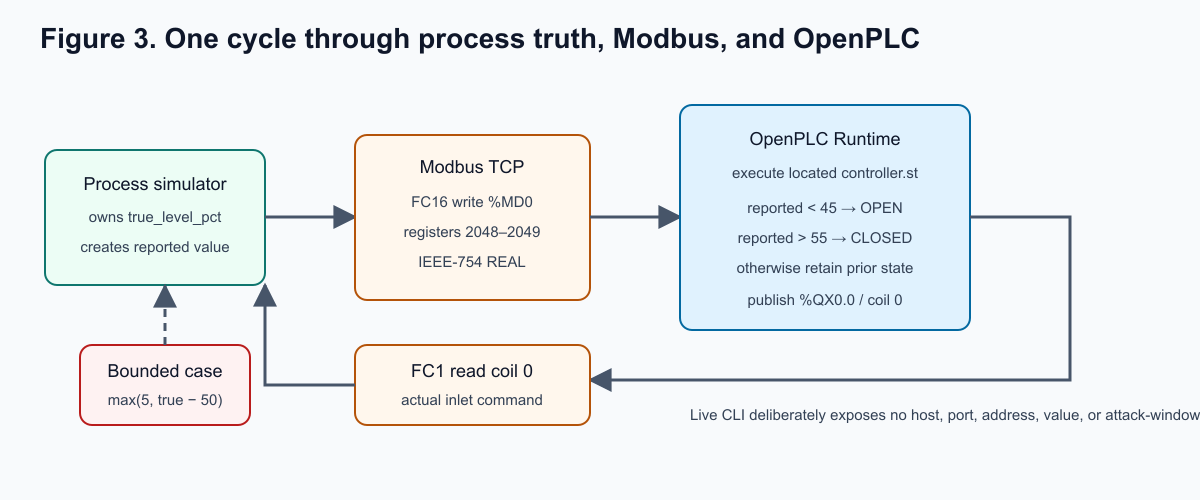
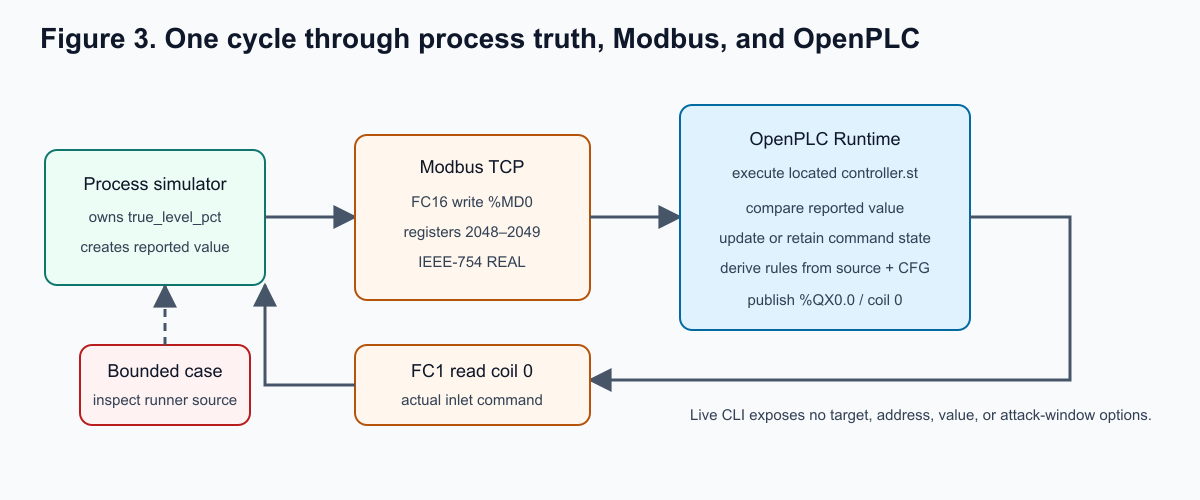
Require student-derived HW2 analysis (#10)

Changed region(s): [[0.5858, 0.39, 0.7708, 0.57], [0.6167, 0.81, 1.0, 0.84], [0.0617, 0.78, 0.2158, 0.81]]

diff --git a/labs/cps-tank/hw2/EVIDENCE_REFERENCE.md b/labs/cps-tank/hw2/EVIDENCE_REFERENCE.md
@@ -20,7 +20,7 @@ not equate those timestamps without aligning the run events.
 | `messages.jsonl` | direction, semantic payload | Model-generated application messages | Packets on a real network |
 | `events.log` | perturbation, command, violation timing | Event ordering on the common clock | Causality by itself |
 | `property_results.json` | expression, verdict, maximum, first violation | Result of one predicate over this finite trace | Universal safety or causal attribution |
-| `oracle_ladder.json` | layer verdicts, whole-run reported maximum, and first-violation onset decision | Whether the controller's view missed the decision immediately before a physical violation, even if it later saw the aftermath | Correctness outside this run or whether an unsafe level was hidden for the entire run |
+| `oracle_ladder.json` | layer verdicts, whole-run reported maximum, and first-violation onset decision | Values needed to compare controller awareness at onset with the whole-run report | The interpretation of any disagreement, correctness outside this run, or causal attribution |
 | `manifest.sha256` | digest and filename | Whether bundle files later changed | Who created them or whether the source was truthful |
 
 ## Default property
@@ -29,30 +29,34 @@ not equate those timestamps without aligning the run events.
 P1: always(true_level_pct < 90)
 ```
 
-The checker uses process truth because the property concerns the simulated physical consequence. Checking only the reported sensor would answer a different question: whether the controller's *view* appeared below 90%. In the bounded live spoof, the whole-run reported oracle can fail after the manipulation stops, while `physical_violation_onset_detection` still says `MISSED`: the decision that led to the first unsafe physical sample used a below-threshold report.
-
-The primary property and checker are provided. Your task is to explain why this
-oracle is tied to process truth, interpret its finite-trace verdict, and either
-critique one limitation or define one small secondary property. You are not
-being asked to invent a complete specification from scratch.
+The primary property and checker are provided. Your task is to justify the
+chosen trace field, compare it with at least one plausible alternative field,
+and interpret the result from your own run. In particular, inspect the
+whole-run reported-state verdict and `physical_violation_onset_detection`
+rather than assuming that agreement or disagreement has a fixed meaning. Then
+either critique one limitation of the checker or define one small secondary
+property. You are not being asked to invent a complete specification from
+scratch.
 
 ## Evidence and claim layers
 
-Keep these conclusions distinct in your memo:
+Keep the required claim layers distinct in your memo. Complete this worksheet
+with evidence from your own run; a single file may support more than one claim,
+but you must explain what it establishes at each layer.
 
-| Claim layer | Typical support | Boundary |
-|---|---|---|
-| Program-level capability | source, CFG, dependency map | A feasible influence path may still be physically unrealizable |
-| Runtime observation | controller/timeline events | Observed execution does not by itself identify network authority or physical truth |
-| Network/authority evidence | pcap and derived Modbus trace | A valid or accepted operation is not proof of authorization, controller use, or safety |
-| Physical/process evidence | simulator-owned process state | This establishes model behavior, not the state of a real tank |
-| Property verdict | checker output over the named trace fields | A finite verdict is scoped to the tested model, inputs, initial state, and horizon |
+| Claim layer | Exact evidence cited | What that evidence establishes | One limitation or stronger unsupported claim |
+|---|---|---|---|
+| Program-level capability |  |  |  |
+| Runtime observation |  |  |  |
+| Network/authority evidence |  |  |  |
+| Physical/process evidence |  |  |  |
+| Property verdict |  |  |  |
 
 The primary SPHERE path combines a real OpenPLC runtime and captured Modbus
 traffic with an emulated deployment and a simulated water-tank process. The
 local fallback uses modeled JSON/TCP semantics instead. State explicitly which
-path you used and which claim would require higher fidelity, such as a hardware
-actuator, physical tank, or a less constrained network/adversary model.
+path you used. Choose and defend one concrete claim that would require higher
+fidelity rather than repeating this architecture description.
 
 ## Packet evidence
 

diff --git a/labs/cps-tank/hw2/REPRESENTATION_MAP.md b/labs/cps-tank/hw2/REPRESENTATION_MAP.md
@@ -1,30 +1,40 @@
 # HW2 controller representation map
 
 One stateful decision is shown in several representations because each view
-answers a different question. They are not interchangeable evidence.
+answers a different question. They are not interchangeable evidence. This
+reference supplies the mechanical name/address correspondence; the ownership,
+authority, physical meaning, and controller-transition interpretation are part
+of your analysis.
 
-| Concept | C/Python view | IEC ST variable | OpenPLC location | Modbus object/address | Wire encoding | Direction, owner, readers | Physical meaning |
-|---|---|---|---|---|---|---|---|
-| Reported observation | `reported_level_pct` / `reported_level` | `reported_level_pct` | `%MD0` | holding registers 2048–2049 | IEEE-754 binary32, big-endian bytes, high word first; one FC16 pair write | process writes; OpenPLC and process read | What the controller is told, not ground truth |
-| Low threshold | `LOW_LEVEL_PCT` / `LOW_LEVEL = 45` | `LOW_LEVEL_PCT` | internal | not transferred | n/a | controller owns and reads | Below it, command OPEN |
-| High threshold | `HIGH_LEVEL_PCT` / `HIGH_LEVEL = 55` | `HIGH_LEVEL_PCT` | internal | not transferred | n/a | controller owns and reads | Above it, command CLOSED |
-| Prior command/state | `state.inlet_valve_open` / `controller.valve` | retained `inlet_valve_open` | `%QX0.0` | coil 0 | one Boolean bit | OpenPLC writes; process reads | State held inside the hysteresis band |
-| Actuator command | return from `controller_step` / `valve` | `inlet_valve_open` | `%QX0.0` | coil 0 | one Boolean bit | OpenPLC writes; process reads and applies | Command applied to the simulated inlet |
-| Process truth | intentionally absent / `tank.level` | intentionally absent | none | not exposed as controller truth | n/a | process owns; property oracle reads | Simulator-owned state used by the CPS oracle |
+## Provided mechanical mapping
 
-## Canonical transition contract
+| Concept | C/Python view | IEC ST variable | OpenPLC location | Modbus object/address | Wire encoding |
+|---|---|---|---|---|---|
+| Reported observation | `reported_level_pct` / `reported_level` | `reported_level_pct` | `%MD0` | holding registers 2048–2049 | IEEE-754 binary32, big-endian bytes, high word first; one FC16 pair write |
+| Low threshold | `LOW_LEVEL_PCT` / `LOW_LEVEL = 45` | `LOW_LEVEL_PCT` | internal | not transferred | n/a |
+| High threshold | `HIGH_LEVEL_PCT` / `HIGH_LEVEL = 55` | `HIGH_LEVEL_PCT` | internal | not transferred | n/a |
+| Prior command/state | `state.inlet_valve_open` / `controller.valve` | retained `inlet_valve_open` | `%QX0.0` | coil 0 | one Boolean bit |
+| Actuator command | return from `controller_step` / `valve` | `inlet_valve_open` | `%QX0.0` | coil 0 | one Boolean bit |
+| Process truth | `tank.level` in the Python process model | intentionally absent | none | not exposed as a PLC object | n/a |
 
-Initial command is CLOSED.
+## Student analysis worksheet
 
-| Reported observation | Next command |
-|---|---|
-| `< 45%` | OPEN |
-| `45% .. 55%`, including both boundaries | retain previous command |
-| `> 55%` | CLOSED |
+Complete this from the source and your own trace. Use a separate row when an
+object has different owners or authorities at different layers.
 
-The boundaries and middle band make the controller stateful. Isolated test
-values are insufficient; equivalence is checked over six input sequences by
-`representation_check.py`.
+| Concept/object | Owner | Who may observe it? | Read or write in the captured operation? | Process/data or engineering/program plane? | Physical meaning and evidence limit |
+|---|---|---|---|---|---|
+| Reported observation |  |  |  |  |  |
+| Prior command/state |  |  |  |  |  |
+| Actuator command |  |  |  |  |  |
+| Process truth |  |  |  |  |  |
+
+Derive the controller's transition rules from `controller.c` and
+`controller.st`; do not copy a rule table from this reference. Your explanation
+must cover both comparisons, the equality cases, and the role of prior state.
+Use at least one multi-step input sequence, since isolated inputs cannot expose
+retained-state behavior. `representation_check.py` uses six sequences as a
+bounded equivalence check, not as a substitute for your explanation.
 
 ## Address note
 

diff --git a/labs/cps-tank/hw2/README.md b/labs/cps-tank/hw2/README.md
@@ -64,7 +64,9 @@ violation remains unreachable.
 
 **Student artifact.** An annotated dependency chain or a short CFG explanation
 that names the input, retained state, decision, and output, followed by your
-physical-realizability assumptions and one reachability limitation.
+physical-realizability assumptions and one reachability limitation. Cite the
+source or generated block supporting each step; copied reference prose is not
+an analysis.
 
 **Learning outcome.** Distinguish what static structure says *can* happen from
 what a later execution says *did* happen.
@@ -98,7 +100,9 @@ was safe.
 **Student artifact.** A completed concept/tag/address/owner/authority table and
 a two- or three-sentence explanation of why a Modbus data write is not a PLC
 program download. Include one example separating protocol validity from
-authorized or safe outcome.
+authorized or safe outcome. `REPRESENTATION_MAP.md` supplies the mechanical
+name/address columns and leaves the assessed ownership, authority, plane, and
+evidence-limit columns for you.
 
 **Learning outcome.** Connect source intent, PLC memory, and network-visible
 objects without treating representations as interchangeable proof.
@@ -150,7 +154,9 @@ start, or sensor bias—and run a small disclosed search. Example:
 ```
 
 You are not implementing a fuzzer. You are designing a bounded search over an
-allowed input or perturbation surface.
+allowed input or perturbation surface. Do not submit the example grid without
+a hypothesis-driven justification; choose different values or explain why the
+example values are appropriate for the specific boundary you are testing.
 
 **Student decision.** Choose and justify a range and step size, including why
 the selected values could expose the property violation. Identify which oracle
@@ -161,11 +167,10 @@ truth rather than reported state, then either critique one limitation of the
 checker or define one small secondary property.
 
 `oracle_ladder.json` separates the whole-run reported-state verdict from
-`physical_violation_onset_detection`. For a violating run, the onset field
-compares the PLC input at the decision immediately before the first sampled
-physical violation with the 90% threshold. The live spoof may eventually
-report an unsafe level after the bounded manipulation ends; that later report
-does not mean the controller saw the danger in time to prevent its onset.
+`physical_violation_onset_detection`. For a violating run, compare their
+inputs, sampling points, and timestamps. Explain any agreement or disagreement
+from your own trace; do not infer timely controller awareness from a later
+sample alone.
 
 **Student artifact.** A compact search table or plot plus the explored space,
 oracle, and your checker critique or secondary property. If you find a
@@ -192,7 +197,9 @@ branch, actuator response, or physical consequence by itself.
 **Student decision.** Select the minimum evidence needed to support each layer
 of your conclusion. Keep program-level capability, runtime observation,
 network/authority evidence, physical/process evidence, and the property verdict
-separate rather than treating one layer as proof of another.
+separate rather than treating one layer as proof of another. Complete the
+worksheet in `EVIDENCE_REFERENCE.md` with exact rows, timestamps, packet
+transactions, or source blocks from your run.
 
 **Student artifact.** A concise investigation memo containing:
 
@@ -339,8 +346,9 @@ targets.
 
 `collect.sh` checks required files, columns, schema version, pcap presence,
 cross-file verdict agreement, and the SHA-256 manifest. `property_oracle.py`
-evaluates `always(true_level_pct < 90)` over `process.csv` because the property
-concerns simulator-owned truth. For a non-writing sensitivity check, try:
+records the selected trace field and evaluates
+`always(true_level_pct < 90)`. Your graded explanation must justify that field
+against at least one alternative. For a non-writing sensitivity check, try:
 
 ```bash
 python3 property_oracle.py RUN_DIRECTORY --max-level 85 --no-write

diff --git a/labs/cps-tank/hw2/TOOLS.md b/labs/cps-tank/hw2/TOOLS.md
@@ -6,7 +6,11 @@ transport, fixed OpenPLC endpoint, and network tools. It reports the expiry
 value but does not enforce the course resource deadline. Students do not need
 to compile C or install dependencies.
 
-`analyze.sh` parses the supported `controller_step` C subset and derives a CFG and retained-state dependency map from the source. It rejects unsupported control constructs; it is not a general C analyzer. You must still interpret the observation-to-actuator path.
+`analyze.sh` launches Clang's `debug.DumpCFG` and Frama-C Eva with `-deps`,
+preserves their raw output, and projects those results into the course CFG and
+dependency-map formats. `static_view.py` is an adapter, not a substitute C
+analyzer. You must still interpret the observation-to-actuator path and the
+tools' stated assumptions.
 
 `verify_representations.sh` executes six stateful sequences through the reference, existing Python controller, compiled C, and supported ST model. Passing establishes bounded agreement on those sequences, not universal equivalence.
 
@@ -14,12 +18,13 @@ to compile C or install dependencies.
 `HW2_TRANSPORT=modbus_tcp`; otherwise it selects the labeled local model. Both
 begin with a fresh tank model and evaluate the provided physical property.
 
-`run_spoof.sh` uses the same transport selector for the bounded manipulation.
-The reported value is `max(5%, true level − 50%)` during 8–16 seconds; it does
-not directly set the valve, tank level, or PLC program. On SPHERE, the fixed
-process client writes that value to OpenPLC with Modbus TCP and captures the
-traffic. In the local fallback, `run_case.sh sensor_spoof` models the exchange
-and produces no pcap.
+`run_spoof.sh` uses the same transport selector for a fixed, bounded
+reported-level manipulation. Inspect the released runner constants and
+transformation before writing your prediction; this page deliberately does not
+pre-summarize them. The manipulation does not directly set the valve, tank
+level, or PLC program. On SPHERE, the fixed process client writes the resulting
+value to OpenPLC with Modbus TCP and captures the traffic. In the local
+fallback, `run_case.sh sensor_spoof` models the exchange and produces no pcap.
 
 `search.sh` runs a transparent finite grid over selected initial levels, attack starts, and sensor biases. It is bounded search, not a production fuzzer or proof engine.
 

diff --git a/labs/cps-tank/hw2/GRADING_RUBRIC.md b/labs/cps-tank/hw2/GRADING_RUBRIC.md
@@ -28,22 +28,12 @@ Do not reward probing outside the assigned realization, arbitrary address
 entry, credential sharing, or program upload. Route suspected boundary
 violations to course policy rather than improvising a technical penalty.
 
-## Evidence checks used during grading
+## How reasoning is graded
 
-- A pcap establishes traffic on the captured interface; it does not establish
-  PLC semantics, actuator obedience, or process truth.
-- Primary SPHERE `modbus_trace.csv` is a readable projection of
-  `network.pcap`; fallback `network_trace.csv` is only modeled semantics and is
-  not a packet capture.
-- A property `FAIL` exit is a valid experiment result, not a broken tool.
-- A finite `PASS` is not proof of universal safety.
-- A static influence path is not proof that its physical consequence is
-  reachable under the tested plant, starting state, horizon, and authority.
-- A valid or accepted Modbus write is not proof of authorization, controller
-  use, safe outcome, or physical actuation.
-- The provided primary checker answers a process-truth question. Full credit
-  requires explaining that choice and critiquing one limitation or defining a
-  small secondary property; students do not need to invent the primary
-  specification.
-- Alternative evidence selections earn full credit when the student explains
-  why they are sufficient and what they cannot establish.
+The rubric intentionally names the required claim layers without supplying a
+completed interpretation. Full credit depends on citing exact evidence from
+your own run, explaining what it establishes, and naming a limit or stronger
+unsupported claim. Raw command output, copied reference prose, or a verdict
+without that reasoning does not satisfy the rubric. Alternative evidence
+selections can earn full credit when their sufficiency and limitations are
+defended.

diff --git a/labs/cps-tank/hw2/QUICKSTART.md b/labs/cps-tank/hw2/QUICKSTART.md
@@ -66,10 +66,10 @@ projection derived from that pcap). For the authorized local fallback, use
 `network_trace.csv` and `messages.jsonl` only as **semantic reconstruction**;
 neither is packet evidence.
 
-For a spoof run, distinguish the whole-run reported-state verdict from
-`physical_violation_onset_detection`. The latter checks the controller input
-used for the process step immediately before the first sampled physical
-violation; a later honest report does not undo an earlier missed onset.
+For a spoof run, compare the whole-run reported-state verdict with
+`physical_violation_onset_detection`. Use the fields, timestamps, and source
+rows to determine what each check observed and to explain any disagreement;
+the quick start deliberately does not supply that interpretation.
 
 Your work begins after the commands succeed: explain why the two cases differ, which evidence supports the property verdict, and what the run cannot establish.
 

diff --git a/labs/cps-tank/hw2/TROUBLESHOOTING.md b/labs/cps-tank/hw2/TROUBLESHOOTING.md
@@ -54,12 +54,13 @@ That file belongs to the JSON/TCP fallback and is a semantic reconstruction,
 not a pcap. In SPHERE, use `network.pcap` and its tshark-derived
 `modbus_trace.csv` instead.
 
-## A Modbus write is described as a program download
+## I am unsure how to classify a Modbus operation
 
-That classification is wrong for this lab. `%MD`/holding-register and
-`%QX`/coil operations manipulate process data. OpenPLC program deployment uses
-a separate engineering/management path. Recheck `REPRESENTATION_MAP.md` and
-Part B of the assignment.
+Use the function, object type, address, endpoints, and observed effect to argue
+for a process/data-plane or engineering/program-management classification.
+Compare the captured operation with the separately documented OpenPLC
+deployment path. Recheck `REPRESENTATION_MAP.md` and Part B, but supply the
+classification and evidence-based explanation yourself.
 
 ## SPHERE URL is unreachable
 
